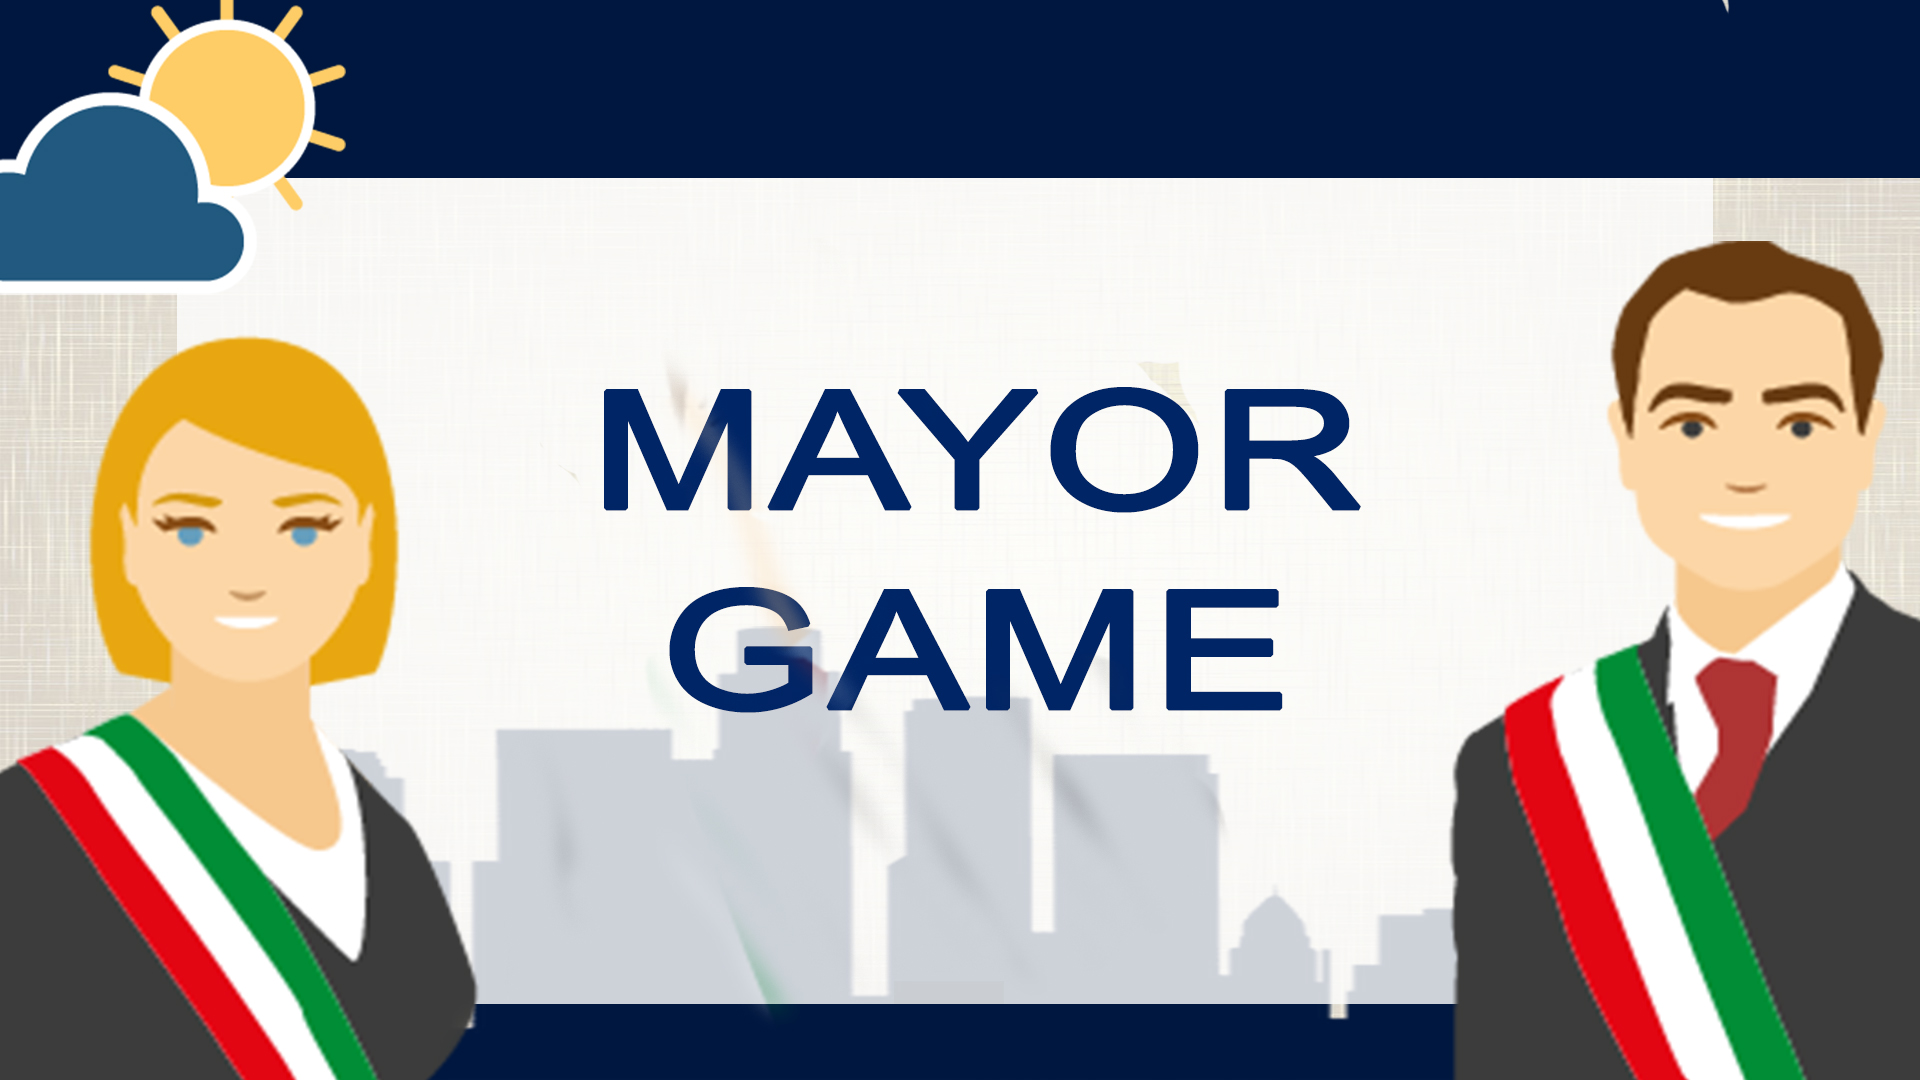
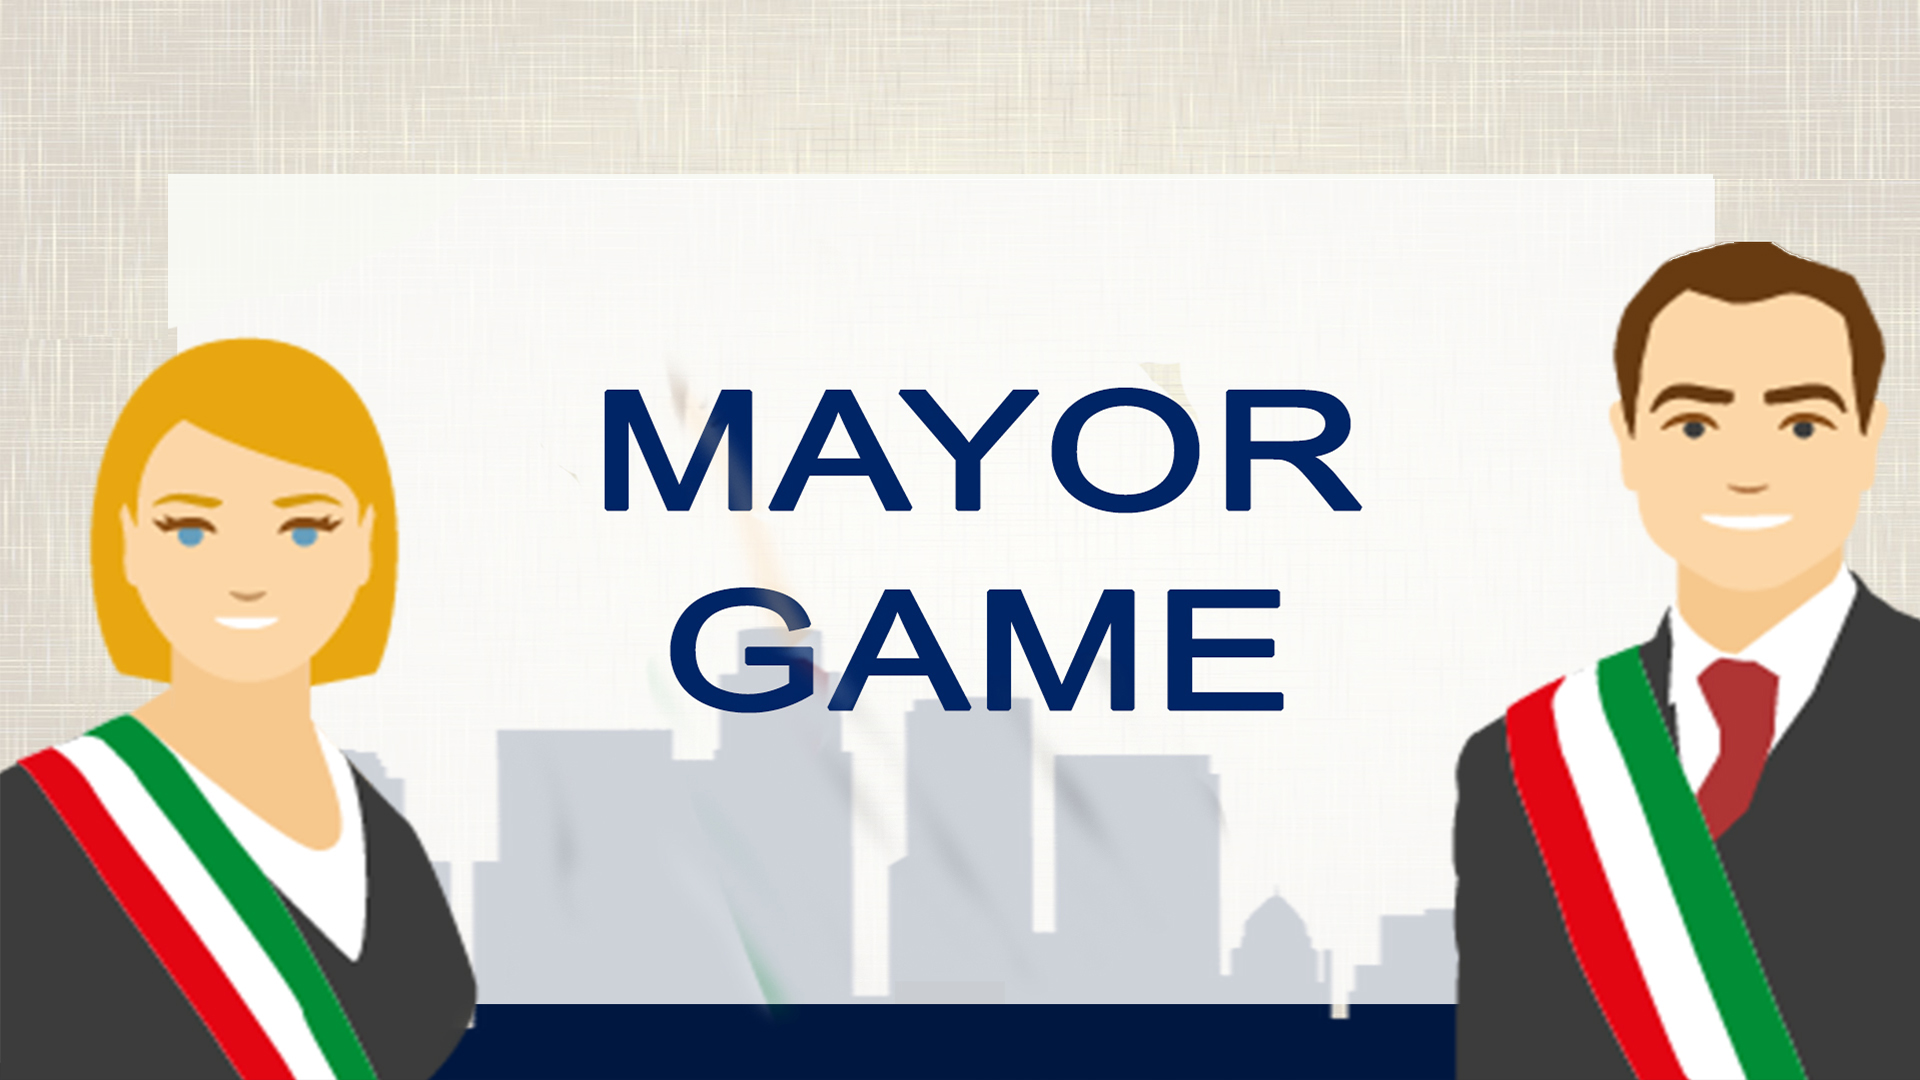
Update

diff --git a/router/index.js b/router/index.js
@@ -1,6 +1,7 @@
 import Vue from 'vue'
 import Router from 'vue-router'
-import Istruzioni from '../components/views/Istruzioni.vue'
+import Istruzioni from '../components/Istruzioni.vue'
+import Header from '../components/Header.vue'
 
 Vue.use(Router)
 
@@ -10,6 +11,11 @@ export default new Router({
       path: '/',
       name: 'Istruzioni',
       component: Istruzioni
+    },
+    {
+      path: '/',
+      name: 'Header',
+      component: Header
     }
   ]
 })

diff --git a/components/Header.vue b/components/Header.vue
@@ -1,0 +1,16 @@
+<template>
+    <div>
+        <img src='../assets/bordo.png'/>
+        <p> {{ title }} </p>
+        <nav>
+            <button id="italian" @click="toItalian"><img src="../assets/IT.png" class="ButtonIMG"></button>
+            <button id="english" @click="toEnglish"><img src="../assets/ENG.jpg" class="ButtonIMG"></button>     
+        </nav>
+    </div>
+</template>
+
+<script>
+export default {
+    name: 'Header'
+}
+</script>

diff --git a/components/Istruzioni.vue b/components/Istruzioni.vue
@@ -1,0 +1,12 @@
+<template>
+    <div id="myImage">
+          <img src="../assets/italian0.jpg" alt="pagina" id="image" class="sfondo">
+          <button id="confirm" v-on:click.prevent="changeImage"><img src="../assets/avanti.png" class="avantiIMG"></button>
+    </div>
+</template>
+
+<script >
+export default {
+  name: 'HelloWorld'
+}
+</script>

diff --git a/App.vue b/App.vue
@@ -1,13 +1,14 @@
 <template>
   <div id="app" >
-    <Istruzioni/>
-    <router-view/>
+    <Header/>
+    <router-view name="Header"/>
   </div>
 </template>
 
 <script>
+import Header from './components/Header.vue'
+
 export default {
   name: 'App'
 }
 </script>
-

diff --git a/main.js b/main.js
@@ -1,7 +1,7 @@
 import Vue from 'vue'
 import App from './App'
 import router from './router'
-import './components/css/slider.css'
+import './css/slider.css'
 //import 'bootstrap'
 //import 'bootstrap/dist/css/bootstrap.min.css'
 
